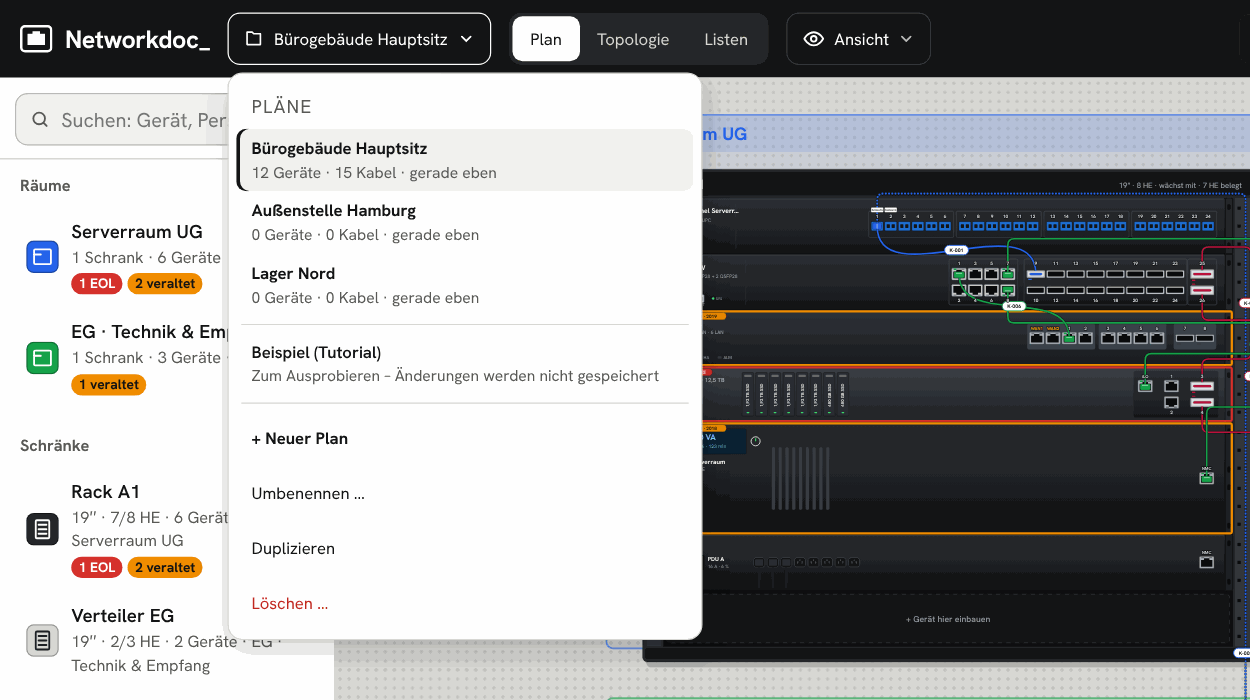
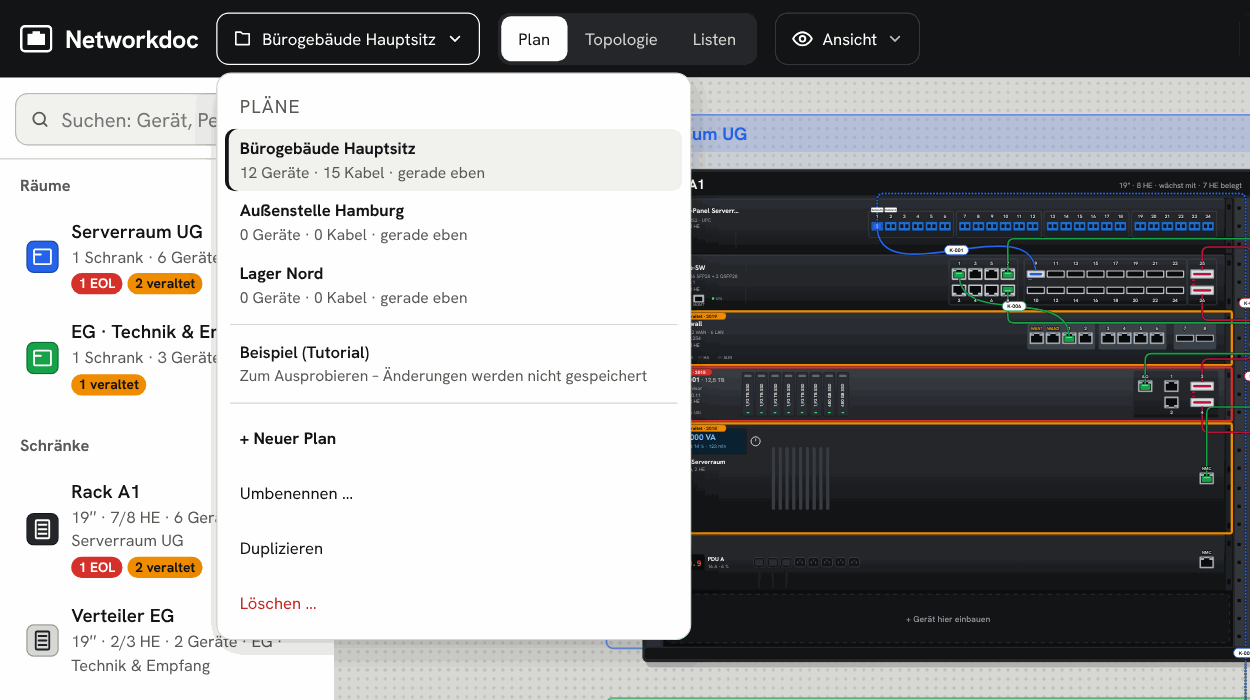
Name ohne Unterstrich: Networkdoc
App-Titel, Kopfzeile, README, Anmeldeabfrage, Server-Startmeldung und Screenshots.

Claude-Session: https://claude.ai/code/session_01A9dmJmeCipEMR3BAmEA5RX

diff --git a/server/server.js b/server/server.js
@@ -392,7 +392,7 @@ const server = http.createServer(async (req, res) => {
   try {
     if (pathname === '/healthz') return send(res, 200, 'ok', { 'Cache-Control': 'no-store' });
     const user = login(req);
-    if (user === null) return send(res, 401, 'Anmeldung erforderlich', { 'WWW-Authenticate': 'Basic realm="Networkdoc_", charset="UTF-8"' });
+    if (user === null) return send(res, 401, 'Anmeldung erforderlich', { 'WWW-Authenticate': 'Basic realm="Networkdoc", charset="UTF-8"' });
     req.user = user;
     if (pathname === '/api/plans' || pathname.startsWith('/api/plans/')) return await apiPlans(req, res, pathname.slice('/api/plans'.length).replace(/^\//, ''));
     // ältere Adressen (ein einziger Plan) zeigen auf „main“
@@ -410,7 +410,7 @@ const server = http.createServer(async (req, res) => {
 });
 
 server.listen(PORT, HOST, () => {
-  console.log(`Networkdoc_ läuft auf http://${HOST}:${PORT} – Daten in ${DATA}${AUTH ? ` – Anmeldung aktiv (${ACCOUNTS.size} ${ACCOUNTS.size === 1 ? 'Konto' : 'Konten'})` : ''}`);
+  console.log(`Networkdoc läuft auf http://${HOST}:${PORT} – Daten in ${DATA}${AUTH ? ` – Anmeldung aktiv (${ACCOUNTS.size} ${ACCOUNTS.size === 1 ? 'Konto' : 'Konten'})` : ''}`);
 });
 for (const sig of ['SIGTERM', 'SIGINT']) {
   process.on(sig, () => {

diff --git a/src/body.html b/src/body.html
@@ -4,7 +4,7 @@
 <header class="top">
   <div class="brand">
     <svg width="26" height="26" viewBox="0 0 26 26" aria-hidden="true"><rect x="1" y="3" width="24" height="20" rx="3" fill="none" stroke="#fff" stroke-width="2"/><path d="M6 9h4V7h6v2h4v9H6z" fill="#fff"/></svg>
-    <h1 translate="no">Networkdoc_</h1>
+    <h1 translate="no">Networkdoc</h1>
   </div>
   <div class="plansw"><button type="button" class="plbtn" id="b-plans" aria-haspopup="menu" aria-expanded="false" aria-controls="plmenu"><svg width="16" height="16" viewBox="0 0 24 24" fill="none" stroke="currentColor" stroke-width="2" stroke-linecap="round" stroke-linejoin="round" aria-hidden="true"><path d="M4 4h6l2 2h8v13H4z"/></svg><span class="pln" id="pl-name">Plan</span><svg class="vch" width="14" height="14" viewBox="0 0 24 24" fill="none" stroke="currentColor" stroke-width="2.4" stroke-linecap="round" aria-hidden="true"><path d="m6 9 6 6 6-6"/></svg></button><div class="plmenu" id="plmenu" role="menu" aria-label="Pläne" hidden></div></div>
   <div class="tabs" role="tablist" aria-label="Ansicht">

diff --git a/src/head.html b/src/head.html
@@ -3,5 +3,5 @@
 <head>
 <meta charset="utf-8">
 <meta name="viewport" content="width=device-width, initial-scale=1">
-<title>Networkdoc_</title>
+<title>Networkdoc</title>
 <!--FONTS-->

diff --git a/README.md b/README.md
@@ -1,4 +1,4 @@
-# Networkdoc_
+# Networkdoc
 
 Netzwerk-Verkabelung im Browser planen und dokumentieren. Switches, Firewalls, Patchpanels, LWL-Panels, Server, USVs, Access Points und Hosts legst du in Schränken und Räumen an. Ihre Ports verbindest du per Drag & Drop.
 
